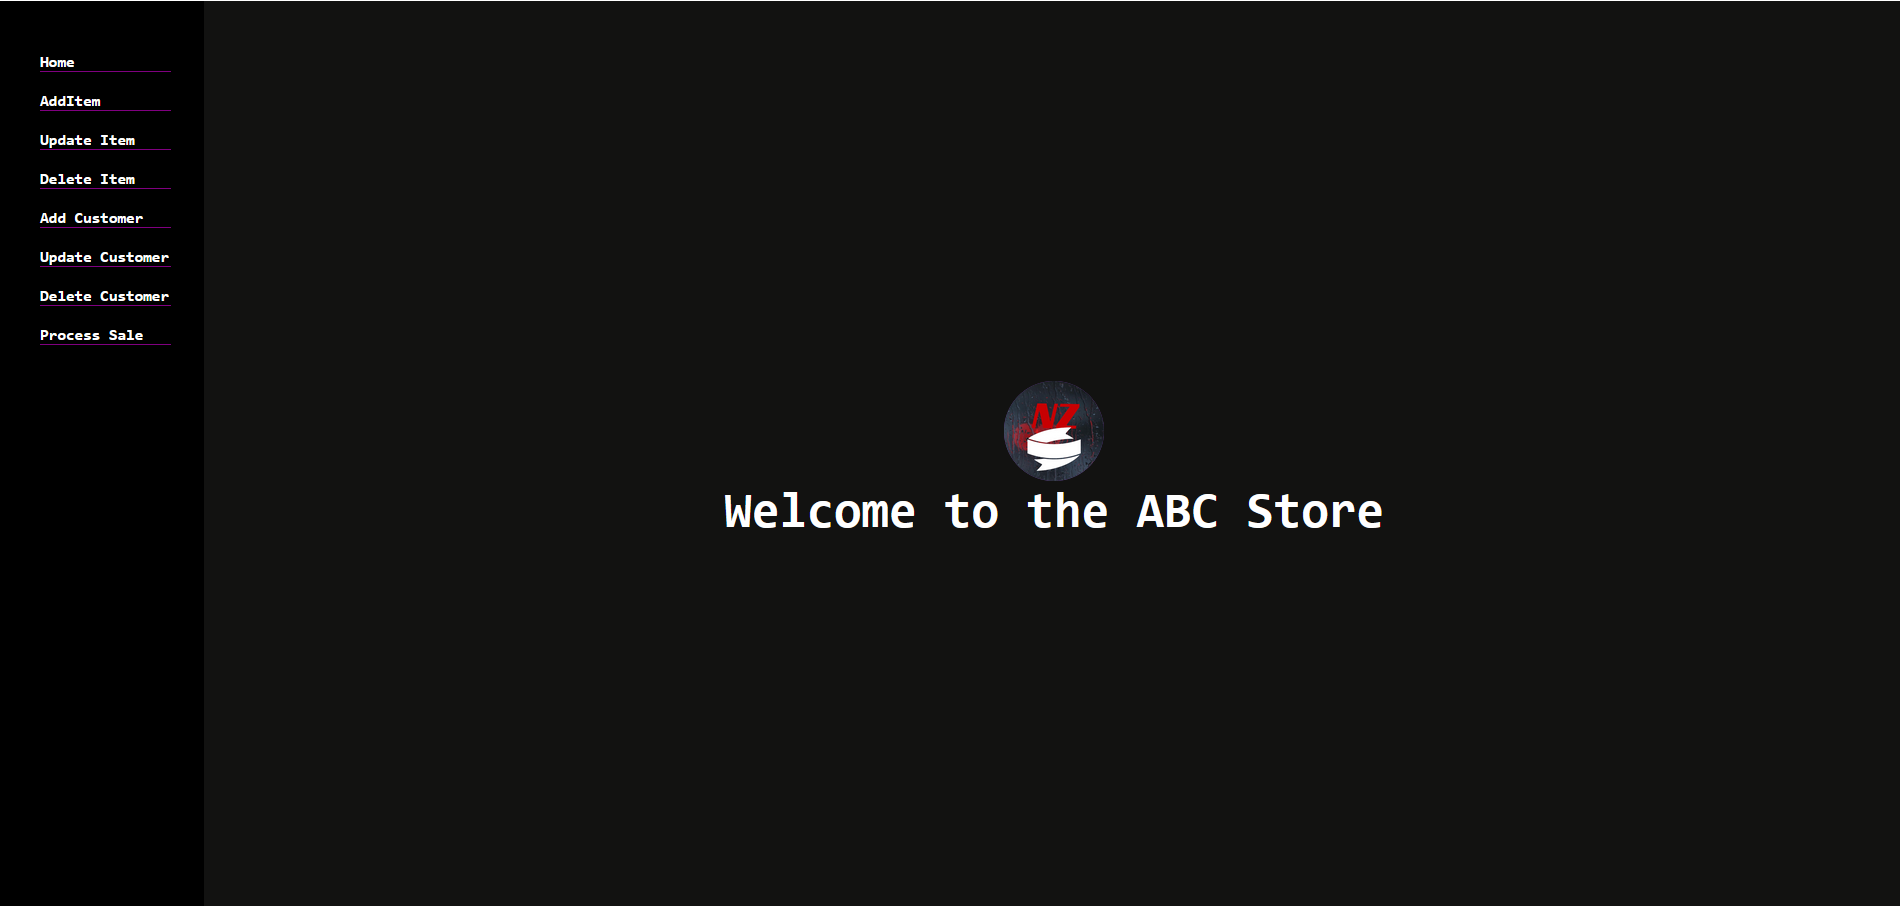
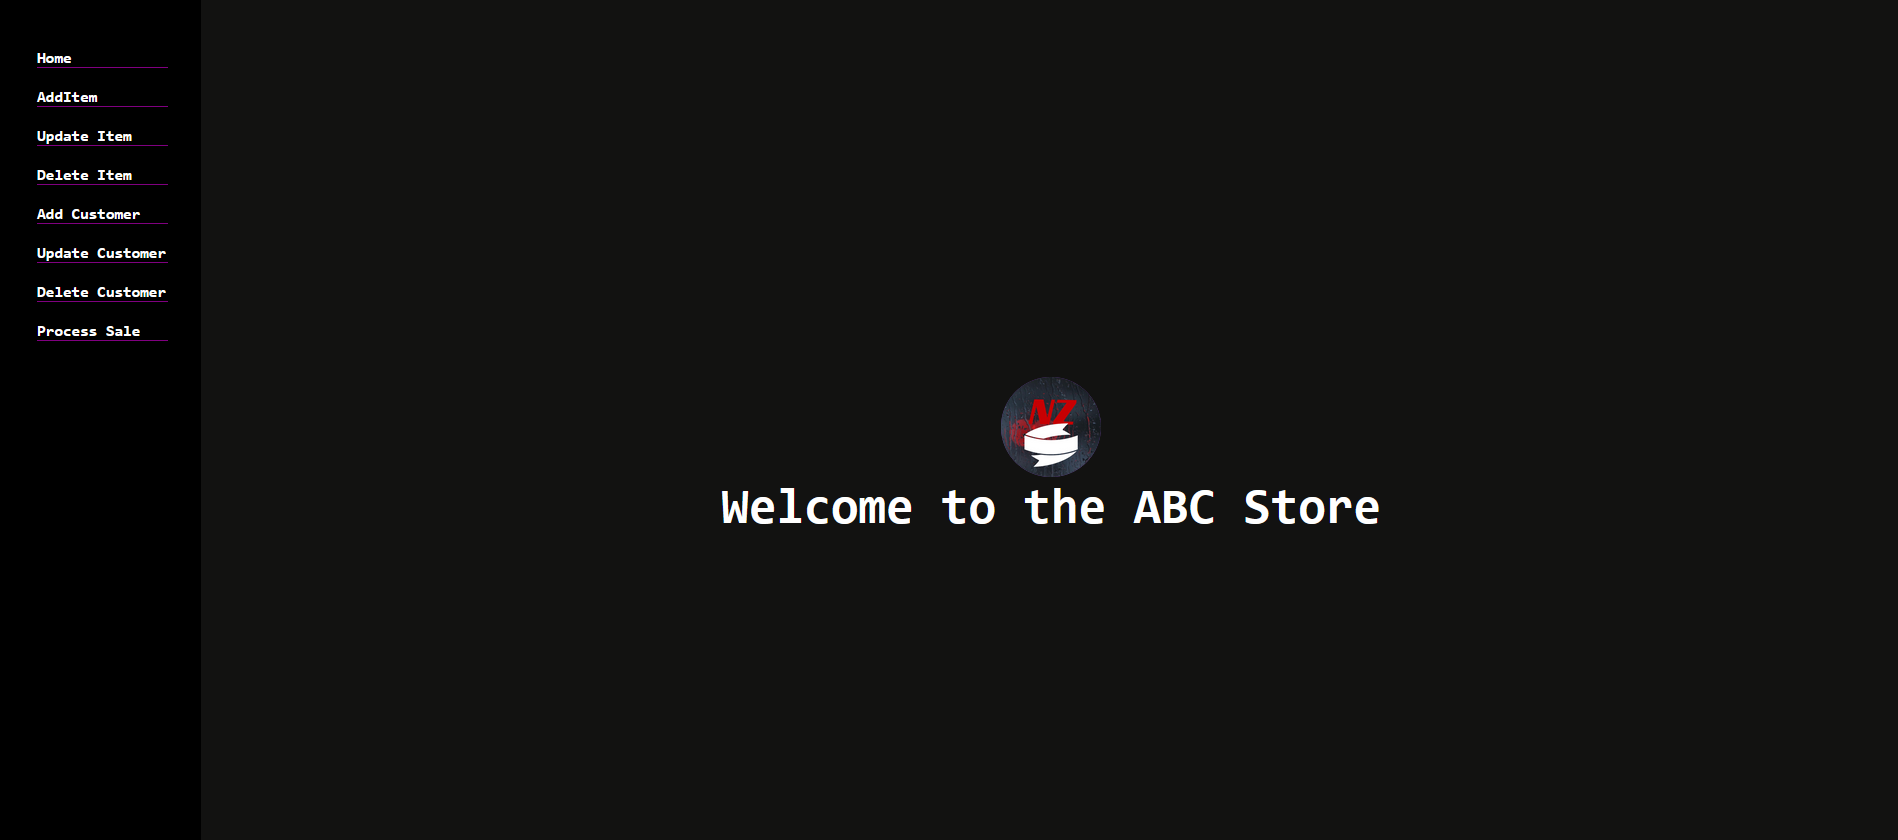
The picture changed

Changed region(s): [[0.373, 0.4024, 0.746, 0.619], [0.0, 0.0619, 0.0933, 0.4024]]

diff --git a/newwork.html b/newwork.html
@@ -42,7 +42,7 @@
            </section>         
            <section class="imgs transition-fade">
                 <section class="img-sec short">
-                    <a href="https://dev1.baist.ca/Students/nekwom1/Index" target="_blank"> <img src="img/ABCStore.png" alt="ABC HardWare Store Site" height="370" ></a>
+                    <a href="https://dev1.baist.ca/Students/nekwom1/Index" target="_blank"> <img src="img/ABCStore.png" alt="ABC HardWare Store Site"  ></a>
                 </section>
                 <!-- <section class="img-sec short">
                    <a href="https://github.com/Phahose/La-Chocolatier" target="_blank"> <img src="img/chocolate.png" alt="Chocletaire Website" ></a>

diff --git a/css/newstyle.css b/css/newstyle.css
@@ -211,6 +211,7 @@ header h1{
 .img-sec img:hover{
     transform: scale(1.05);
 }
+
 .img-sec{ 
     flex: 50%;
     width: 25%;
